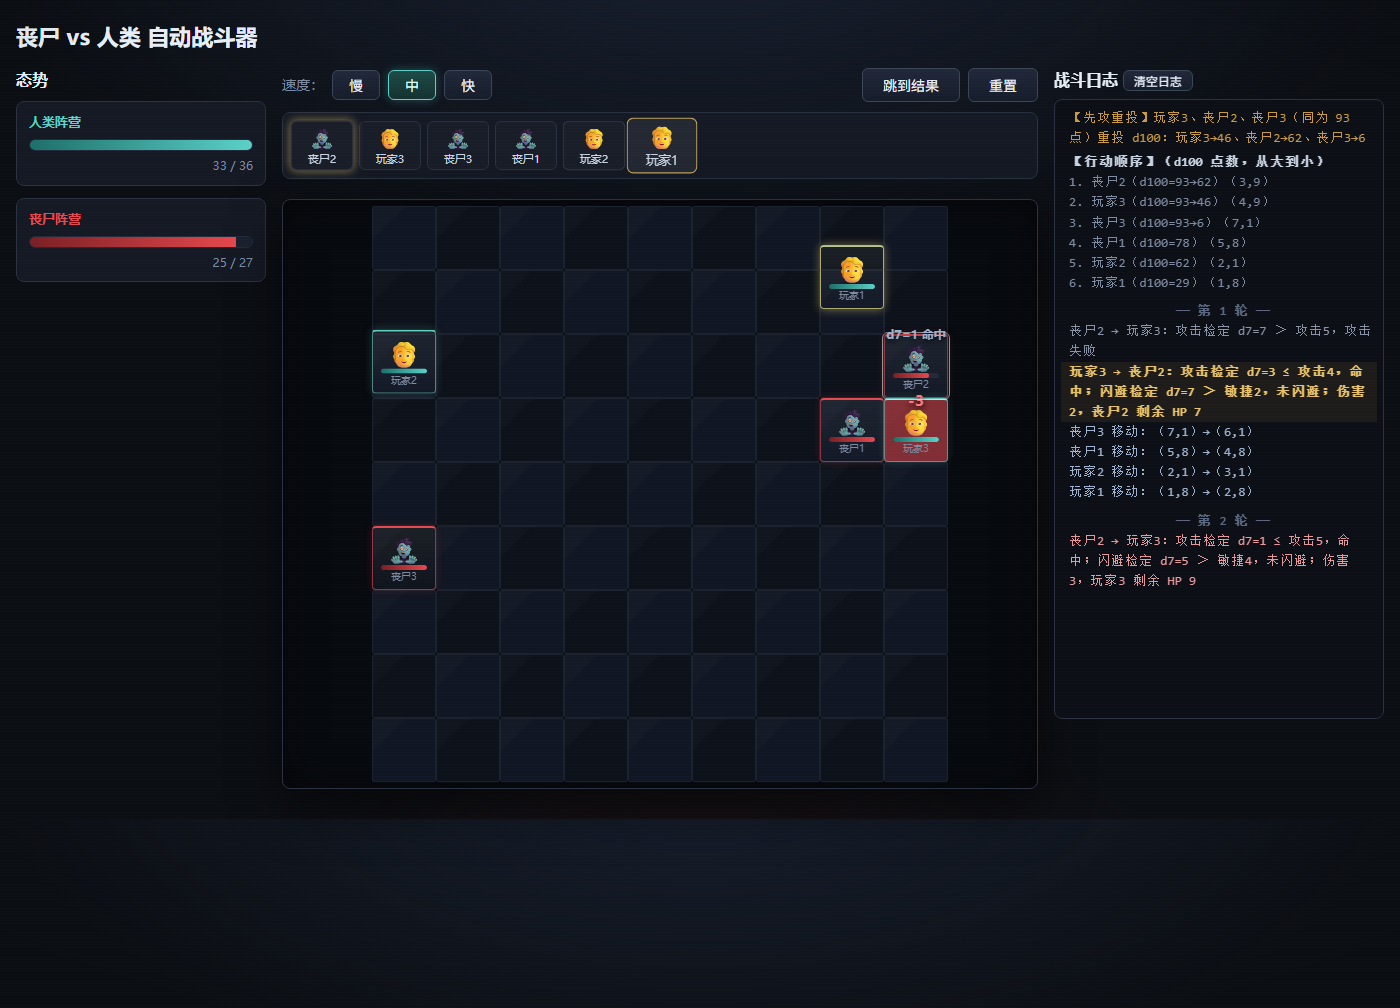
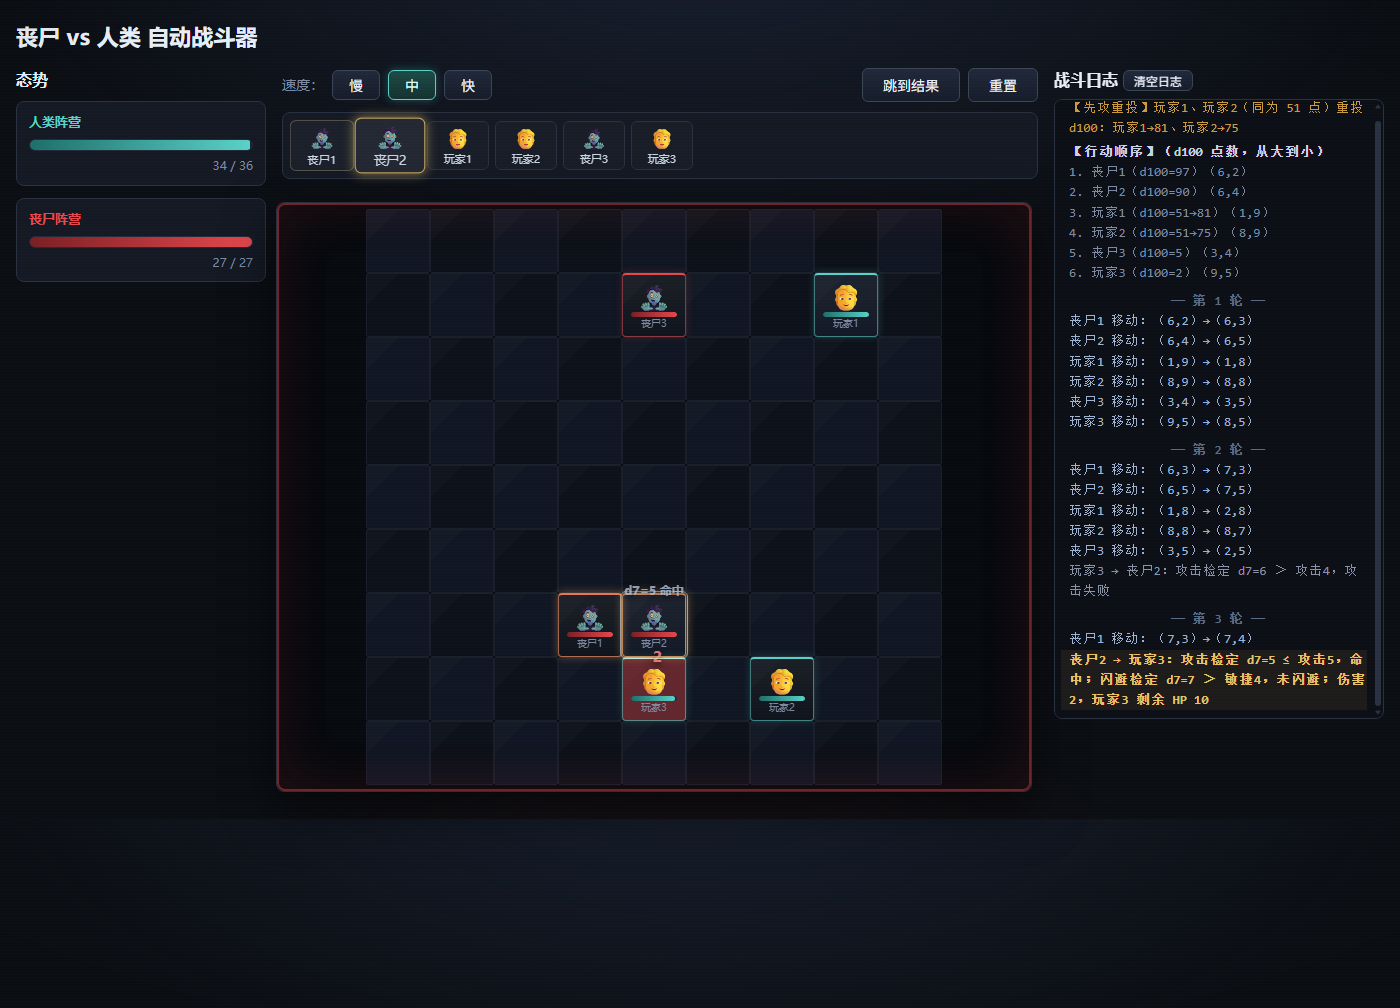
fix(ui): address first-review findings
Standards axis:
- README presentation sections re-synced with the new UI (64px cells, always-on
  names, dark three-pane layout, key-moment staging, intent overlay, gold
  current-actor marker, new animation timings)
- comment/label language cleanup: traditional-Chinese-style wording in newly
  added comments and test labels rewritten as proper Japanese (規格->仕様,
  関鍵時刻->重要シーン, 虛線->破線, 残影->残像, etc); pre-existing main wording
  untouched
- FX_DUR <-> --dur-* comments now both state the must-stay-in-sync contract

Spec axis:
- intent overlay gains faction-colored drop-shadow glow so the ~1.2s afterglow
  reads as the spec's 'glowing footprint' (#16 decision 6)
- .unit-name max-width 58px -> 43px: 4 full-width chars at 10px fit exactly,
  so >4 chars genuinely ellipsize per decision 5

Gates: engine.test.mjs RESULT 365563/0 failures; browser-drive ALL STEPS
PASSED; screenshots refreshed from this run

diff --git a/src/styles.css b/src/styles.css
@@ -1,5 +1,5 @@
   /* =====================================================================
-   * 暗色末日主題（#16 規格: 原型 A「転播 HUD」の変数基線。対比度の微調整以外
+   * 暗色末日テーマ（#16 仕様: 原型 A「転播 HUD」の変数基線。対比度の微調整以外
    * の色変更は禁止）。最小設計幅 ~1280px — 更窄では横方向スクロールする
    * ===================================================================== */
   :root {
@@ -9,10 +9,10 @@
     --human: #5ad1c8; --human-deep: #1d6f6a;
     --zombie: #e5484d; --zombie-deep: #7a1f24;
     --gold: #e8c268;
-    /* 演出尺（#16 規格。値は ui.js の FX_DUR と意味対応。CSS 変数でだけ管理） */
-    --dur-shake: .4s;   /* 首接戰: 震屏＋紅暈 */
-    --dur-spot: .9s;    /* 倒地: 聚光暗場 */
-    --dur-freeze: .6s;  /* 終局: 定格 */
+    /* 演出尺（#16 仕様。ui.js の FX_DUR と必ず一致させること） */
+    --dur-shake: .4s;   /* 初接戦: 画面シェイク＋赤縁グロー */
+    --dur-spot: .9s;    /* 倒地: スポットライト暗転 */
+    --dur-freeze: .6s;  /* 終局: フリーズ */
   }
   * { box-sizing: border-box; }
   body {
@@ -27,7 +27,7 @@
       radial-gradient(900px 500px at 50% 115%, #1c1216 0%, transparent 55%),
       var(--bg);
   }
-  /* 廃土の質感: 微かな走査線＋暗隅（畫像は使わない。裏層なので觸れない） */
+  /* 廃土の質感: 微かな走査線＋暗隅（画像は使わない。最背面層なので触れない） */
   body::after {
     content: ""; position: fixed; inset: 0; pointer-events: none; z-index: 3;
     background:
@@ -77,7 +77,7 @@
   button:disabled { cursor: not-allowed; opacity: .45; box-shadow: none; }
   button.small { padding: 1px 10px; font-size: 12px; font-weight: normal; }
 
-  /* ---- 戦場ページ三欄骨組み（#16: 左=態勢 / 中=戰場 / 右=日志） -------- */
+  /* ---- 戦場ページ 3 カラム骨組み（#16: 左=態勢ゲージ / 中=戦場 / 右=ログ） -------- */
   .battle-columns {
     display: grid;
     grid-template-columns: 250px minmax(620px, auto) 330px;
@@ -148,7 +148,7 @@
     padding: 6px;
     box-shadow: 0 18px 50px rgba(0, 0, 0, .55), inset 0 0 40px rgba(0, 0, 0, .5);
   }
-  /* マス辺長 64px は ui.js の CELL_PX と必ず一致させること（#16 規格） */
+  /* マス辺長 64px は ui.js の CELL_PX と必ず一致させること（#16 仕様） */
   #battle-grid {
     position: relative;
     display: grid;
@@ -161,7 +161,7 @@
   }
   .grid-cell.alt { background-color: #101623; }
 
-  /* ---- キャラカード（マス内カード: Emoji + ミニ血条 + 常顯名前） --------- */
+  /* ---- キャラカード（マス内カード: Emoji + ミニ血条 + 常時表示名前） --------- */
   .unit-card {
     position: absolute; left: 0; top: 0;
     width: 64px; height: 64px;
@@ -185,8 +185,9 @@
     outline: 1.5px solid rgba(255, 255, 255, .55); outline-offset: 1px;
     z-index: 3;
   }
-  /* 倒地（#16 規格: 灰化＋盖章）: 聚光の拍に烙印を押し、そのまま薄れながら
-     消える（JS タイマー不使用。クラスは残すので検査は classList で成立つ） */
+  /* 倒地（#16 仕様: グレースケール＋スタンプ）: 倒地拍に「倒地」スタンプを押し、
+     そのまま薄れながら消える（JS タイマー不使用。クラスは残すので検査は
+     classList で成立つ） */
   .unit-card.downed {
     pointer-events: none;
     filter: grayscale(1);
@@ -212,9 +213,10 @@
   .hp-fill { height: 100%; width: 100%; border-radius: 3px; transition: width .45s ease; }
   .unit-card.human .hp-fill { background: linear-gradient(90deg, var(--human-deep), var(--human)); }
   .unit-card.zombie .hp-fill { background: linear-gradient(90deg, var(--zombie-deep), var(--zombie)); }
-  /* 常顯名前（#16 規格: 4 字超は省略記号。data は全文を保持する） */
+  /* 常時表示名前（#16 仕様: 4 字超は省略記号。data は全文を保持する。
+     10px 全角 4 字 = 40px が上限なので、5 字目から必ず「…」に丸まる） */
   .unit-name {
-    max-width: 58px; font-size: 10px; line-height: 1.1; color: var(--ink-dim);
+    max-width: 43px; font-size: 10px; line-height: 1.1; color: var(--ink-dim);
     white-space: nowrap; overflow: hidden; text-overflow: ellipsis;
   }
 
@@ -234,24 +236,27 @@
   }
 
   /* ---- 被弾ライトアニメ（赤フラッシュ） -------------------------------- */
-  /* transform はマス位置の保持に使うため觸れない（margin 揺れも不要と判断し
-     色の脈動だけに絞った — 原型 A の hitflash と同じ構成） */
+  /* transform はマス位置の保持に使うため触らない（原型 A の hitflash と同じく
+     色の脈動だけに絞る） */
   .unit-card.hit-flash { animation: hit-flash .38s ease; }
   @keyframes hit-flash {
     0%   { background: rgba(229, 72, 77, .55); }
     100% { background: linear-gradient(180deg, rgba(255, 255, 255, .06), rgba(255, 255, 255, .015)); }
   }
 
-  /* ---- 意図層・關鍵時刻演出の覆い（骨組み層。grid の子数は不変） -------- */
+  /* ---- 意図層・重要シーン演出の覆い（骨組み層。grid の子数は不変） -------- */
   #intent-layer {
     position: absolute; left: 6px; top: 6px;   /* #battlefield の padding 6px と一致 */
     width: 576px; height: 576px;               /* 9×64px。CELL_PX と一致させること */
     pointer-events: none; z-index: 1; overflow: visible;
   }
-  /* 意図は拍の頭で掃き出されるまで残る（~1200ms のフェードが足跡の残影） */
+  /* 意図は次拍の頭で消されるまで残る（~1200ms のフェード＋陣営色のグローが
+     足跡の発光残像を兼ねる） */
   .intent-svg { position: absolute; left: 0; top: 0; animation: intent-fade 1.2s ease-out forwards; }
   .intent-svg line { stroke-width: 2; opacity: .8; fill: none; }
   .intent-svg circle { fill: none; stroke-width: 1.5; opacity: .7; }
+  .intent-svg.intent-human { filter: drop-shadow(0 0 4px rgba(90, 209, 200, .55)); }
+  .intent-svg.intent-zombie { filter: drop-shadow(0 0 4px rgba(229, 72, 77, .55)); }
   .intent-svg.intent-human line, .intent-svg.intent-human circle { stroke: var(--human); }
   .intent-svg.intent-zombie line, .intent-svg.intent-zombie circle { stroke: var(--zombie); }
   @keyframes intent-fade {
@@ -274,9 +279,9 @@
     background: radial-gradient(ellipse at center, transparent 28%, rgba(5, 7, 11, .82) 76%);
   }
   .fx-spot.on { animation: fx-spot var(--dur-spot); }
-  /* 震屏は transform を #battlefield に掛ける（卡の transform とは独立） */
+  /* 画面シェイクは transform を #battlefield に掛ける（カードの transform とは独立） */
   #battlefield.fx-shake { animation: fx-shake var(--dur-shake); }
-  /* 終局の定格（跳到結果でも同じ演出で着地する） */
+  /* 終局のフリーズ（跳到結果でも同じ演出で着地する） */
   #battlefield.fx-freeze { animation: fx-freeze var(--dur-freeze); }
   @keyframes fx-redge { 0% { opacity: 0; } 30% { opacity: 1; } 100% { opacity: 0; } }
   @keyframes fx-spot { 0% { opacity: 0; } 25% { opacity: 1; } 75% { opacity: 1; } 100% { opacity: 0; } }
@@ -303,7 +308,7 @@
   #banner-title { font-size: 18px; font-weight: bold; margin: 2px 0; color: var(--gold); }
   .banner-body { white-space: pre-line; margin: 2px 0; font-size: 14px; font-family: inherit; color: var(--ink); }
 
-  /* ---- 戦闘ログ（三級分層: 關鍵行の強調＋行動行の陣営色＋通常行） --------- */
+  /* ---- 戦闘ログ（三級分層: 重要行の強調＋行動行の陣営色＋通常行） --------- */
   .log {
     font-family: Consolas, "Courier New", monospace;
     font-size: 13px;

diff --git a/src/ui.js b/src/ui.js
@@ -38,8 +38,8 @@
   };
   var SPEED_ORDER = ['slow', 'middle', 'fast'];
 
-  // 關鍵時刻演出の尺 ms（#16 規格。styles.css の --dur-shake / --dur-spot と
-  // 必ず一致させること。次拍の遅延增量の算出にだけ使う）
+  // 重要シーン演出の尺 ms（#16 仕様。styles.css の --dur-shake / --dur-spot と
+  // 必ず一致させること。次ステップの遅延増分の算出にだけ使う）
   var FX_DUR = { shake: 400, spot: 900 };
 
   // ---- スケジューラ --------------------------------------------------
@@ -91,15 +91,15 @@
   var battleGen = 0;        // 戦闘ごとの代号（開戦/リセットで++、过期回调の無効化）
   var pendingTimer = null;  // 予約済みの次ステップ
   var renderedLogCount = 0; // 画面に描画済みの log 先頭数（追記描画用）
-  var firstContactSeen = false; // 初接戰（初の命中）をまだ演出していないか
-  var firstHitRowLogged = false; // 初接戰行（初の命中行）をまだ描いていないか
+  var firstContactSeen = false; // 初接戦（初の命中）をまだ演出していないか
+  var firstHitRowLogged = false; // 初接戦行（初の命中行）をまだ描いていないか
   var cardRefs = {};        // 名前 → { card, emoji, fill, float }
   var chipRefs = {};        // 名前 → { chip, emoji }
 
   // ---- 戦場グリッド定数 ----------------------------------------------
   // CSS 側（.grid-cell / .unit-card の 64px）と必ず一致させること
   var GRID_SIZE = 9;        // 一辺のマス数（エンジンの 9×9 と一致）
-  var CELL_PX = 64;         // 1 マスの辺長 px（#16 規格: 64px 固定）
+  var CELL_PX = 64;         // 1 マスの辺長 px（#16 仕様: 64px 固定）
 
   // ---- 小道具 --------------------------------------------------------
 
@@ -183,8 +183,8 @@
 
   // 戦場を一度だけ組み立てる: 81 マス＋全カード（以後は updateCards で更新）。
   // カードはマスの中に絶対配置し、transform の遷移で滑り移動する。
-  // 子序は凍結面: [0]emoji [1]血条 [2]飄字層。名前は末尾 [3] に追加する
-  // （#16 規格: 名前常顯。4 字超は CSS 側で省略記号に丸める）
+  // 子順は凍結面: [0]emoji [1]血条 [2]飄字層。名前は末尾 [3] に追加する
+  // （#16 仕様: 名前は常時表示。4 字超は CSS 側で省略記号に丸める）
   function buildCards() {
     cardRefs = {};
     var grid = $('battle-grid');
@@ -293,8 +293,8 @@
     }
   }
 
-  // 態勢條（#16 規格）: 両陣営の「存活 hp 合計 / maxHp 合計」を毎拍集計して
-  // 左欄の双條へ反映する。純呈現の集計で、結算（エンジン）には觸れない
+  // 態勢ゲージ（#16 仕様）: 両陣営の「存活 hp 合計 / maxHp 合計」を毎拍集計して
+  // 左欄の双バーへ反映する。純表示の集計で、エンジンの決着処理には触れない
   function updatePowerPane() {
     if (!state) return;
     var sum = { human: 0, zombie: 0 };
@@ -339,11 +339,11 @@
     r.card.classList.add('hit-flash');
   }
 
-  // ---- 意図提示（#16 規格）--------------------------------------------
-  // move 拍だけ描く: 移動元→移動先への虛線と目標格の円環。座標は格中心の
-  // 純計算（getBoundingClientRect に依らないので描画結果が環境で変わらない）。
-  // 掃除は JS タイマーを使わず「次拍の頭で丸ごと掃除」（飄字と同じ方式。
-  // CSS 側の ~1200ms フェードが移動足跡の残影を兼ねる）
+  // ---- 意図提示（#16 仕様）--------------------------------------------
+  // move 拍だけ描く: 移動前→移動後マスへの破線と目標マスのリング。座標は
+  // マス中心の純計算（getBoundingClientRect に依らないので描画結果が環境で
+  // 変わらない）。掃除は JS タイマーを使わず「次拍の頭で丸ごと消す」
+  // （飄字と同じ方式。CSS 側の ~1200ms フェードが移動足跡の残像を兼ねる）
   function clearIntent() {
     $('intent-layer').innerHTML = '';
   }
@@ -375,7 +375,7 @@
     $('intent-layer').appendChild(svg);
   }
 
-  // ---- 關鍵時刻演出（#16 規格）----------------------------------------
+  // ---- 重要シーン演出（#16 仕様）--------------------------------------
   // すべて「クラス付与 + CSS アニメの自己完結」で表現し、JS タイマーは
   // 一切使わない（1 pump == 1 step の不変量を守るため）。再始動は
   // 付け外し + 強制リフローで行う（飄字の flashCard と同じ方式）
@@ -403,8 +403,8 @@
   }
 
   // まだ描画していないログ行だけを追記し、最下部へ自動スクロールする。
-  // 三級分層（#16 規格）: 關鍵行（倒地/初接戰/終局）に log-key、行動行に陣営色を
-  // 追加する。本文と log-<type> の判定は凍結面なので觸れない
+  // 三級分層（#16 仕様）: 重要行（倒地/初接戦/終局）に log-key、行動行に陣営色を
+  // 追加する。本文と log-<type> の判定は凍結面なので触れない
   function appendLog() {
     if (!state || renderedLogCount >= state.log.length) return;
     var box = $('battle-log');
@@ -495,17 +495,17 @@
     if (state.finished) {
       finishBattle();
     } else {
-      // 關鍵拍は演出尺が基本遅延に追いつくまで次拍の待ちを延ばす
-      // （尺 ≤ 基本遅延なら增量 0。予約は常に 1 件なので pump 不変量は守られる）
+      // 重要シーンの拍は演出尺が基本遅延に追いつくまで次拍の待ちを延ばす
+      // （尺 ≤ 基本遅延なら増分 0。予約は常に 1 件なので pump 不変量は守られる）
       var base = SPEEDS[speedKey].delay;
       scheduleNext(base + Math.max(0, fxMs - base));
     }
   }
 
-  // 1 ステップ分の結算結果を画面へ反映する（飄字・アニメ・血条・順序帯・日志）。
+  // 1 ステップ分の結果を画面へ反映する（飄字・アニメ・血条・順序帯・ログ）。
   // move は updateCards の transform 更新だけで滑り移動が表現され、
   // blocked はカードの動きなしでログだけが残る。戻り値はこの拍で始動した
-  // 關鍵時刻演出の尺 ms（なければ 0。doStep が次拍の遅延に加算する）
+  // 重要シーン演出の尺 ms（なければ 0。doStep が次拍の遅延に加算する）
   function applyEvent(ev) {
     clearFloats();
     clearIntent();
@@ -525,14 +525,15 @@
       floatOn(ev.target, '-' + ev.damage + (ev.downed ? ' 倒地' : ''), 'float-damage');
       flashCard(ev.target);
       if (!firstContactSeen) {
-        // 初接戰（初めてダメージが入った拍）: 震屏＋紅暈。以後の命中では再演しない
+        // 初接戦（初めてダメージが入った拍）: 画面シェイク＋赤縁グロー。
+        // 以後の命中では再演しない
         firstContactSeen = true;
         retriggerFx($('battlefield'), 'fx-shake');
         retriggerFx($('fx-redge'), 'on');
         fxMs = FX_DUR.shake;
       }
       if (ev.downed) {
-        // 倒地: 聚光暗場
+        // 倒地: スポットライト暗転
         retriggerFx($('fx-spot'), 'on');
         if (FX_DUR.spot > fxMs) fxMs = FX_DUR.spot;
       }
@@ -547,7 +548,7 @@
     return fxMs;
   }
 
-  // 終局表示へ移る（順序帯の強調を外し、横幅を出す。終局の定格演出を添える）
+  // 終局表示へ移る（順序帯の強調を外し、横幅を出す。終局フリーズ演出を添える）
   function finishBattle() {
     mode = 'done';
     pendingTimer = null;

diff --git a/src/index.html b/src/index.html
@@ -18,7 +18,7 @@ GameEngine / GameUI の API ドキュメントは engine.js 冒頭の
 <body>
 <h1>丧尸 vs 人类 自动战斗器</h1>
 
-<!-- 配置ページ（画面 1/2。暗色主題クラスは #16 規格 S8 の検査対象） -->
+<!-- 配置ページ（画面 1/2。暗色テーマクラスは #16 仕様 S8 の検査対象） -->
 <section id="config-screen" class="dark-theme">
   <h2>阵营配置</h2>
   <p class="hint">调整两边的角色人数与属性，选择初始站位后点「开战」进入战场页；战斗中配置锁定，点战场页的「重置」可返回本页重新调整。</p>
@@ -37,7 +37,7 @@ GameEngine / GameUI の API ドキュメントは engine.js 冒頭の
   </div>
 </section>
 
-<!-- 戦場ページ（画面 2/2。三欄骨組み: 左=態勢條 / 中=戰場 / 右=日志） -->
+<!-- 戦場ページ（画面 2/2。3 カラム骨組み: 左=態勢ゲージ / 中=戦場 / 右=ログ） -->
 <section id="battle-screen" hidden>
   <div class="battle-columns">
     <aside id="power-pane">
